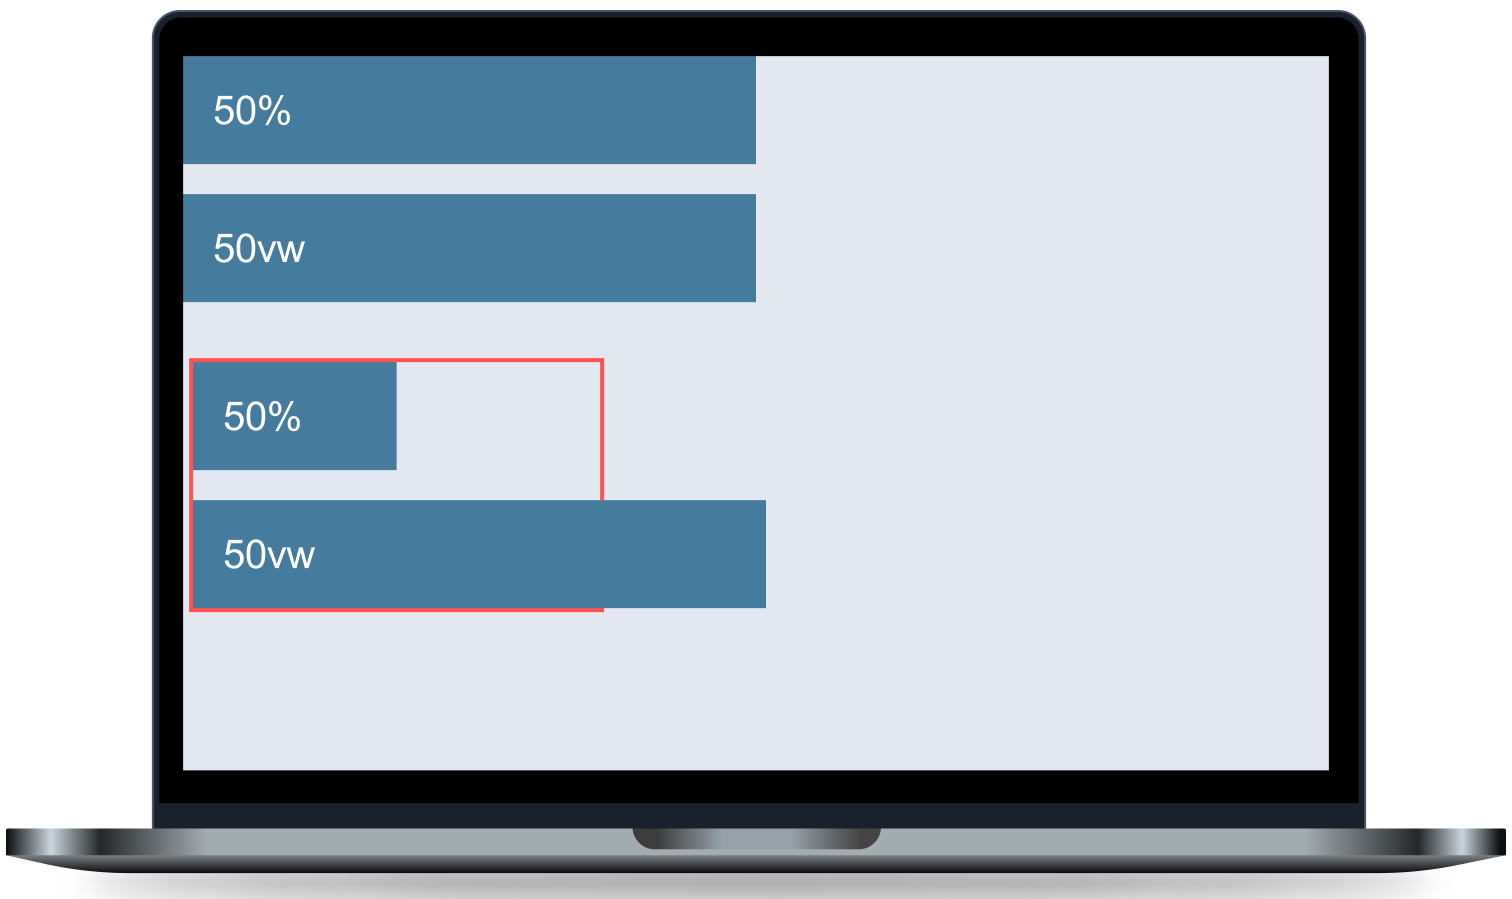
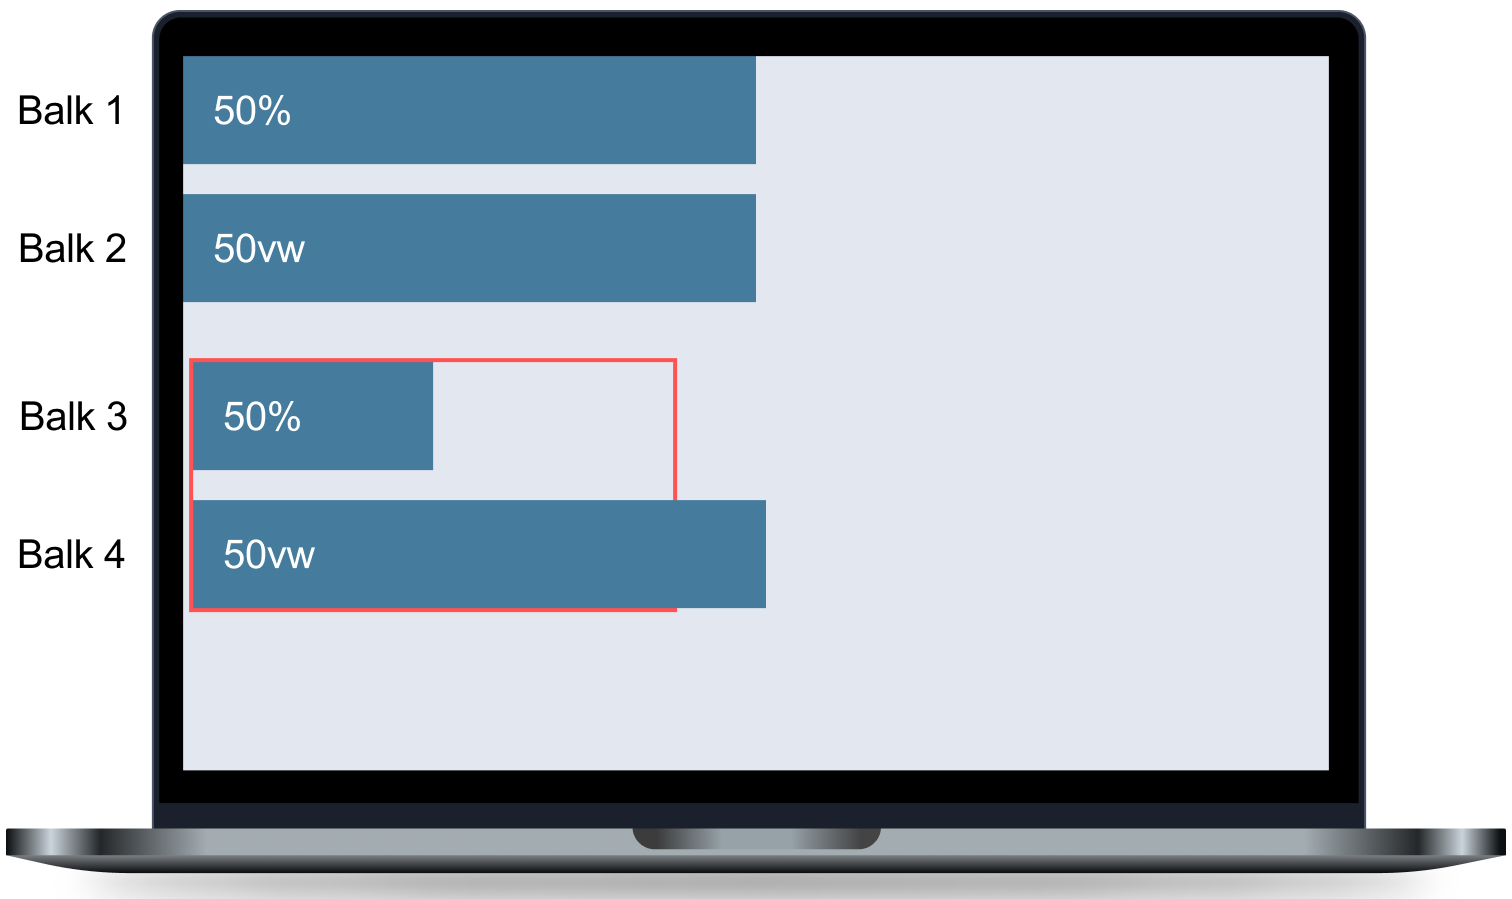
Update

diff --git a/les2/minipuzzels/README.md b/les2/minipuzzels/README.md
@@ -8,6 +8,9 @@
   - [Startcode downloaden](#startcode-downloaden)
     - [Hulpbronnen](#hulpbronnen)
   - [Minipuzzel 1](#minipuzzel-1)
+  - [Minipuzzel 2](#minipuzzel-2)
+  - [Minipuzzel 3](#minipuzzel-3)
+  - [Minipuzzel 4](#minipuzzel-4)
 
 
 <br><hr><br>
@@ -30,13 +33,46 @@ Voltooi onderstaande minipuzzels. Voor iedere oefening is er al code klaargezet 
 
 ## Minipuzzel 1
 
-Stel in de startcode balken in op de `width` zoals in onderstaande afbeelding wordt getoond. *(klik op de afbeelding om te vergroten)*.
+Open de CSS van `Minipuzzel 1` en stel voor de balken de `width` in zoals op onderstaande afbeelding wordt getoond.
 
-Balk 1 en 2 hebben beiden even lang, terwijl de eerste met `%` is ingesteld en de tweede met `vw`. Hoe kan dit?
-<br>
-Dit komt omdat balk 1 en 2 direct in de `<body>` staan. Balk 1 is `50%z van de breedte van zijn parent
+Balk 1 en 2 zijn beiden even breed, terwijl de eerste met `%` is ingesteld en de tweede met `vw`. Hoe kan dit?
+
+Met `%` wordt de waarde relatief aan de parent bepaald en met `vw` relatief aan de viewport-width (dus het scherm). Balk 1 en 2 staan direct in de `<body>` en die is hier even breed als de viewport-width. Daarom zijn balk 1 en 2 even breed.
+
+Balk 3 staat net als balk 1 ingesteld op `50%`, maar toch zie je verschil in breedte. Dit komt omdat balk 3 en 4 in een `<section>` staan met een breedte van `500px`. Zoals gezegd stel je met `%` de waarde relatief aan de parent in. Bij balk 1 is de parent de `<body>`, welke even breed is als het scherm. Bij balk 3 is de parent de `<section>` met een breedte van `500px`, waardoor balk 3 en breedte van `250px` krijgt.
+
+Daarentegen blijft balk 4 even breed als balk 2, omdat deze relatief is aan de viewport-width en die blijft hetzelfde.
 
 <img src="images/Minipuzzel1.png" alt="Oefening 1" title="Oefening 1" width="1012">
+
+
+<br><hr><br>
+
+## Minipuzzel 2
+
+Open de CSS van `Minipuzzel 2` en stel de `<header>` zo in dat hij even hoog is als het scherm, net zoals wordt getoond in onderstaan ontwerp. Hij mag dus niet lager of hoger zijn dan het scherm, hij moet exact dezelfde hoogte hebben.
+
+<img src="images/Minipuzzel2.png" alt="Oefening 2" title="Oefening 2" width="1012">
+
+
+<br><hr><br>
+
+## Minipuzzel 3
+
+Open de CSS van `Minipuzzel 3` en stel de `<section>`'s zo in dat ze gezamenlijk even hoog zijn als het scherm, net zoals wordt getoond in onderstaan ontwerp. Ze mogen gezamenlijk dus niet lager of hoger zijn dan het scherm, ze moeten samen exact de hoogte van het scherm innemen.
+
+<img src="images/Minipuzzel3.png" alt="Oefening 3" title="Oefening 3" width="1012">
+
+
+<br><hr><br>
+
+## Minipuzzel 4
+
+Open de CSS van `Minipuzzel 4` en geef ieder tekstelement een `font-size` met de unit `rem`.
+
+Wanneer je dit voor alle tekstelementen hebt ingesteld, pas dan de `font-size` van `html` aan. Zorg ervoor dat dit wél een absolute waarde is, dus gebruik hiervoor `px`. Speel met deze waarde om te zien wat het effect hiervan is.
+
+<img src="images/Minipuzzel4.png" alt="Oefening 4" title="Oefening 4" width="1012">
 
 
 <br><hr><br>
